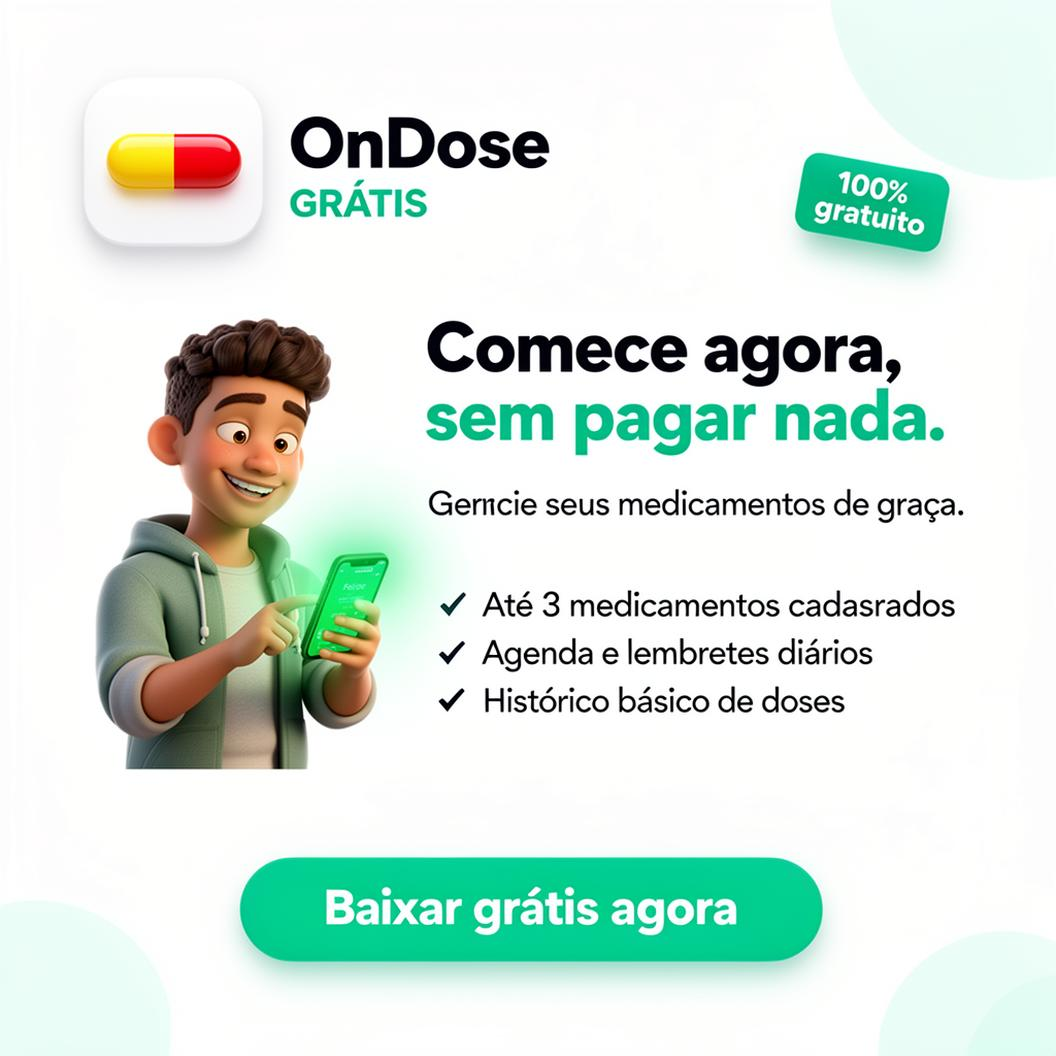
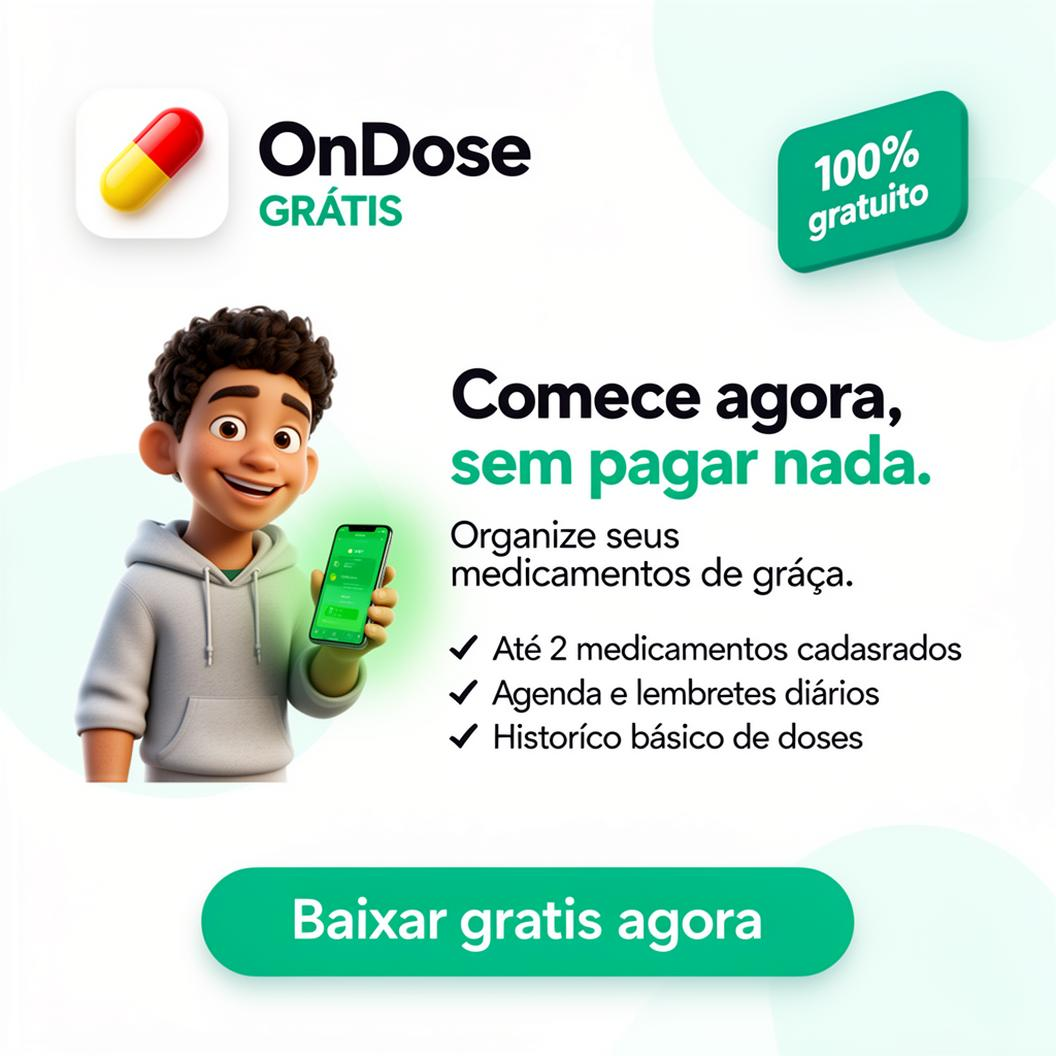
Changes

diff --git a/src/pages/MarketingAssetsPage.tsx b/src/pages/MarketingAssetsPage.tsx
@@ -42,9 +42,9 @@ Conecte sua família agora. Link na bio.
 
 Sem cartão de crédito. Sem compromisso. Só saúde em dia. 💊
 
-Cadastre seus medicamentos, configure lembretes e nunca mais esqueça uma dose — tudo de graça!
+Organize seus medicamentos, configure lembretes e nunca mais esqueça uma dose — tudo de graça!
 
-✅ Até 3 medicamentos cadastrados
+✅ Até 2 medicamentos cadastrados
 ✅ Agenda e lembretes diários
 ✅ Histórico básico de doses
 
